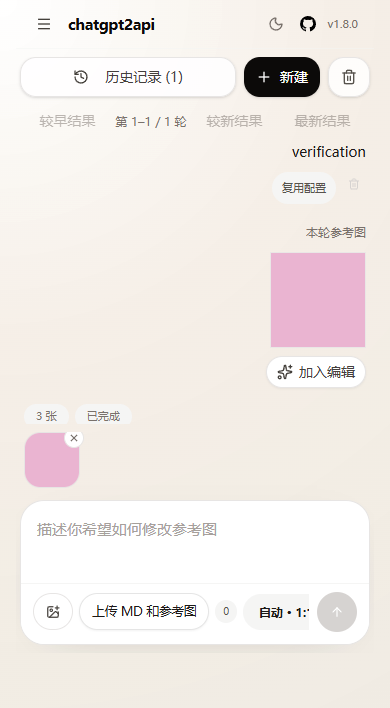
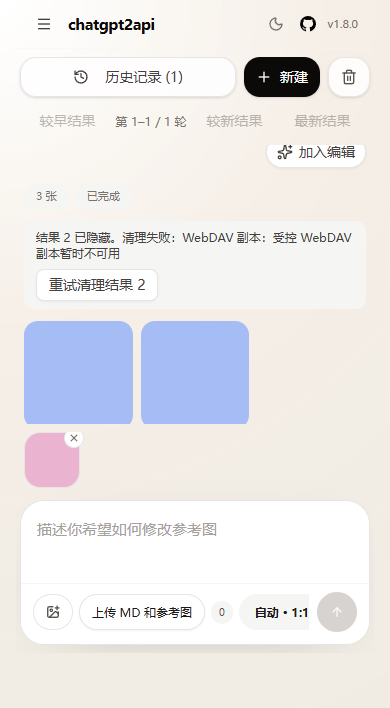
fix: retain partial cleanup progress and cancel viewer deletion safely

diff --git a/web/src/app/image/page.tsx b/web/src/app/image/page.tsx
@@ -1360,7 +1360,10 @@ function ImagePageContent({ isAdmin, authKey }: { isAdmin: boolean; authKey: str
         images={lightboxImages}
         currentIndex={lightboxIndex}
         open={lightboxOpen}
-        onOpenChange={setLightboxOpen}
+        onOpenChange={(open) => {
+          if (!open && deleteConfirm?.type === "image") setDeleteConfirm(null);
+          else setLightboxOpen(open);
+        }}
         onIndexChange={setLightboxIndex}
         onDelete={lightboxImages[lightboxIndex]?.turnId ? () => {
           const image = lightboxImages[lightboxIndex];

diff --git a/test/test_image_result_deletion.py b/test/test_image_result_deletion.py
@@ -354,3 +354,42 @@ def test_local_result_synced_to_new_webdav_deletes_the_actual_added_copy(environ
     restored = env["client"].get(f'/api/image-conversations/{conversation["id"]}', headers=env["headers"]).json()
     assert restored["turns"][0]["resultCleanups"] == []
     assert remote == {}
+
+
+@pytest.mark.parametrize("invalid_tags", ["{broken", "[]"])
+def test_corrupt_tags_keep_cleanup_retry_without_repeating_removed_remote_copy(environment, monkeypatch, invalid_tags):
+    from services import image_storage_service as storage
+    env = environment
+    remote = {}
+    deletions = []
+    class Remote:
+        def __init__(self, settings):
+            pass
+        def test(self):
+            return {"ok": True}
+        def put(self, rel, data):
+            remote[rel] = data
+            return f"https://synthetic.example/{rel}"
+        def delete(self, rel):
+            deletions.append(rel)
+            return remote.pop(rel, None) is not None
+    monkeypatch.setattr(storage, "WebDAVClient", Remote)
+    monkeypatch.setitem(config_module.config.data, "image_storage", {"enabled": True, "mode": "both", "webdav_url": "https://synthetic.example"})
+    assert submit(env).status_code == 200
+    conversation = wait_for_history(env)["items"][0]
+    turn = conversation["turns"][0]
+    image = turn["images"][0]
+    tags.TAGS_FILE.write_text(invalid_tags, encoding="utf-8")
+    route = f'/api/image-conversations/{conversation["id"]}/turns/{turn["id"]}/images/{image["id"]}'
+    assert env["client"].delete(route, headers=env["headers"]).status_code == 200
+    assert remote == {} and len(deletions) == 1
+    monkeypatch.setattr(image_tasks, "image_task_service", ImageTaskService(env["path"]))
+    restored = env["client"].get(f'/api/image-conversations/{conversation["id"]}', headers=env["headers"]).json()
+    assert restored["turns"][0]["resultCleanups"][0]["state"] == "error"
+    assert "标签" in restored["turns"][0]["resultCleanups"][0]["error"]
+    assert tags.TAGS_FILE.read_text(encoding="utf-8") == invalid_tags
+    tags.TAGS_FILE.write_text("{}", encoding="utf-8")
+    assert env["client"].delete(route, headers=env["headers"]).status_code == 200
+    assert len(deletions) == 1
+    restored = env["client"].get(f'/api/image-conversations/{conversation["id"]}', headers=env["headers"]).json()
+    assert restored["turns"][0]["resultCleanups"] == []

diff --git a/services/image_storage_service.py b/services/image_storage_service.py
@@ -512,7 +512,7 @@ class ImageStorageService:
                 errors.append(f"缩略图：{exc}")
         try:
             remove_tags(safe_rel)
-        except OSError as exc:
+        except (OSError, ValueError) as exc:
             errors.append(f"标签：{exc}")
         with self._index_lock:
             image_rows.save(self.index_file, {"images": {safe_rel: item if errors else None}})
